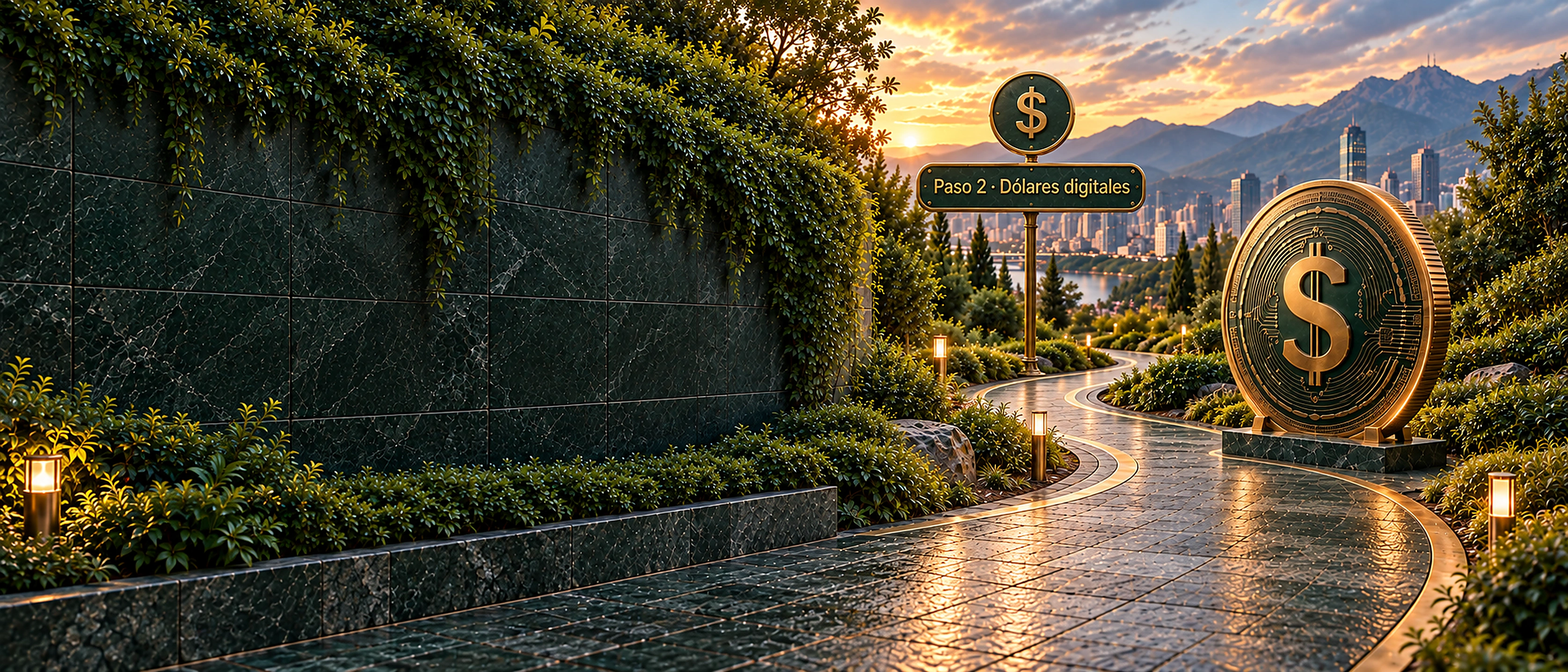
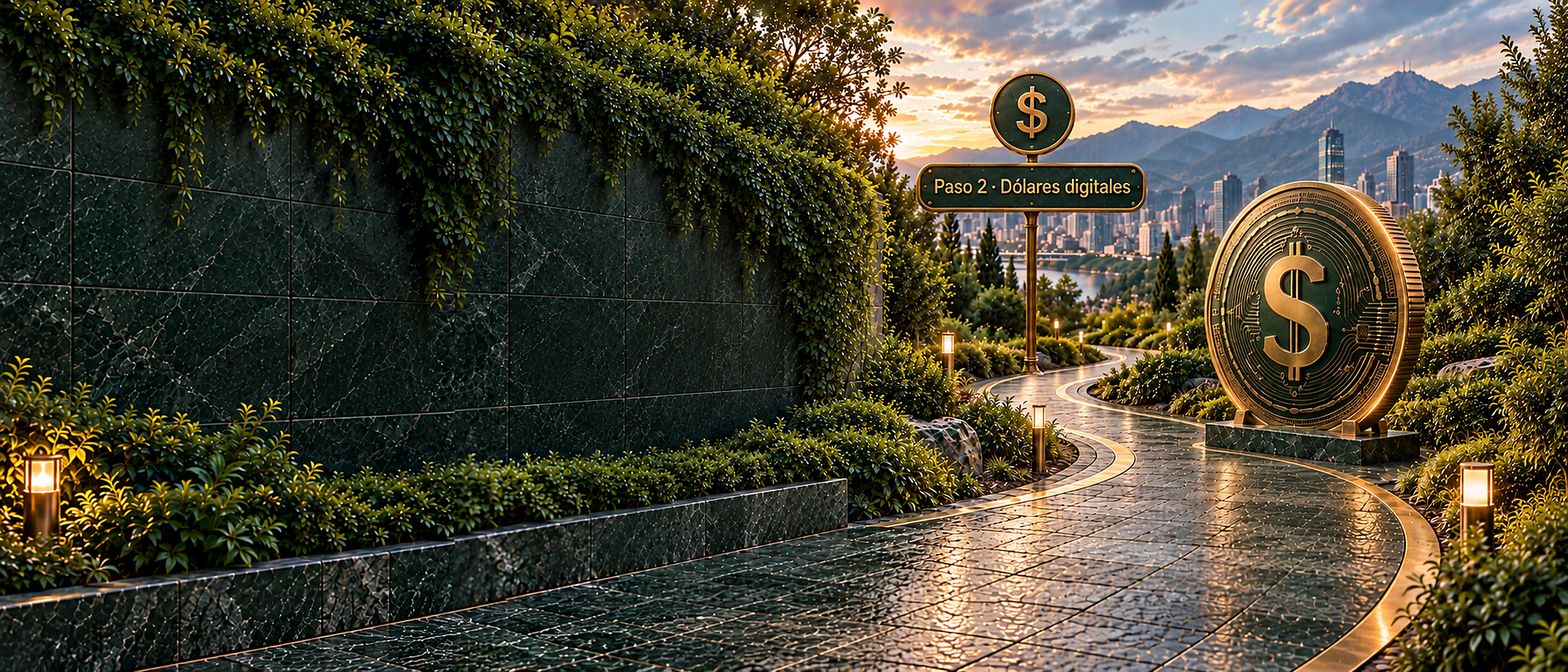
Swap in cooler Dólares digitales sky, unify color-grade across slides
Replaced the background with the cooler-sky version (same upscale +
WebP treatment), and aligned the saturate/brightness/contrast filter
on Primeros Pasos and Dólares digitales to match the hero's — all
three now use the same values so the slides read as one consistent
tone instead of each being tuned slightly differently.

Claude-Session: https://claude.ai/code/session_017UvSnScNgkSm4ix49wDF99

diff --git a/components/dolares-digitales-section.tsx b/components/dolares-digitales-section.tsx
@@ -43,7 +43,7 @@ export function DolaresDigitalesSection() {
           className="absolute inset-0 h-full w-full object-cover object-[88%_center] opacity-100 lg:object-[center_right]"
           style={{
             ...settle(),
-            filter: "saturate(1.15) brightness(1.12) contrast(1.02)",
+            filter: "saturate(1.22) brightness(1.18) contrast(1.03)",
             WebkitMaskImage:
               "linear-gradient(to right, transparent 0%, black 40%, black 100%), linear-gradient(to bottom, transparent 0%, black 10%, black 90%, transparent 100%)",
             maskImage:

diff --git a/components/primeros-pasos-section.tsx b/components/primeros-pasos-section.tsx
@@ -39,7 +39,7 @@ export function PrimerosPasosSection() {
           className="h-full w-full object-cover object-[92%_center] lg:object-[72%_center]"
           style={{
             ...settle(),
-            filter: "saturate(1.15) brightness(1.12) contrast(1.02)",
+            filter: "saturate(1.22) brightness(1.18) contrast(1.03)",
             WebkitMaskImage:
               "linear-gradient(to right, transparent 0%, black 40%, black 100%), linear-gradient(to bottom, transparent 0%, black 10%, black 90%, transparent 100%)",
             maskImage:
